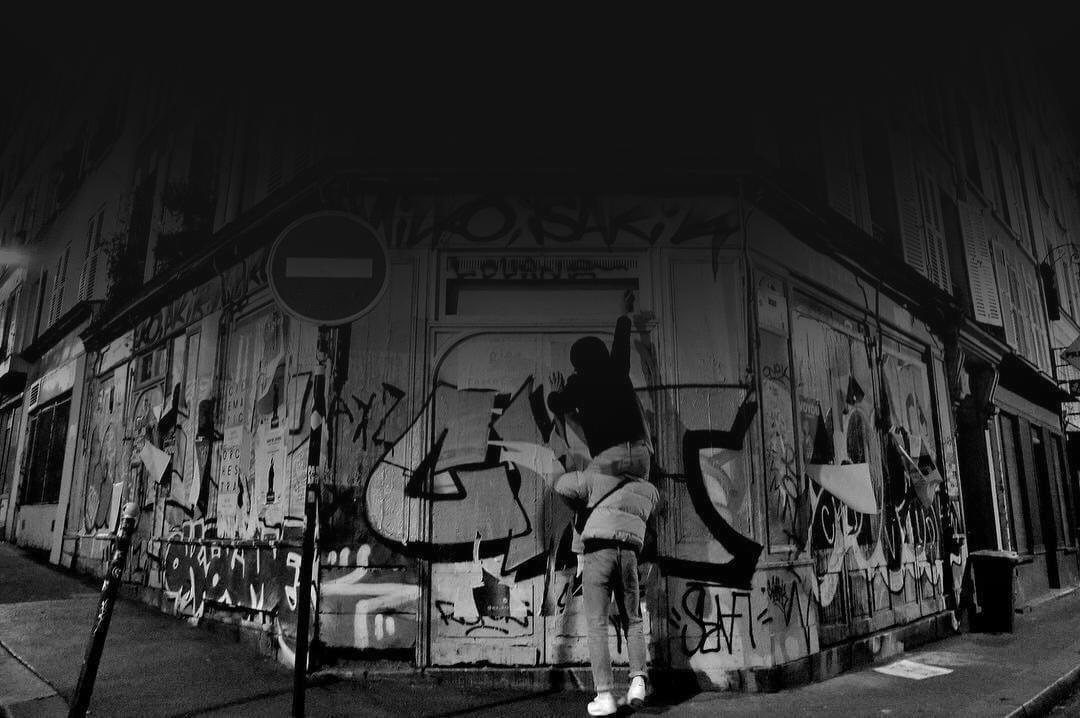
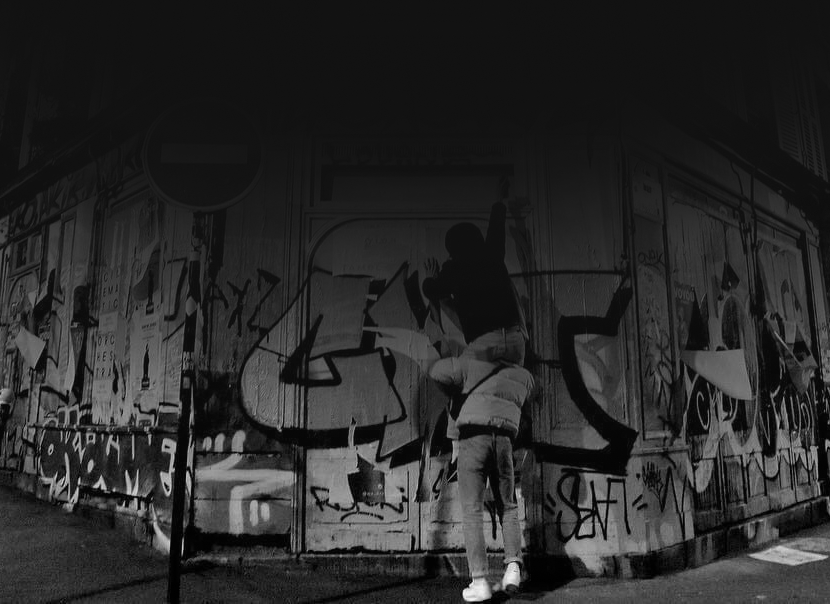
feat: shuffle-bag backgrounds, gritty crossfade transition, beat-driven equalizer fallback
6 new background images (frame-18 through frame-23) plus an updated,
lighter frame-16, all auto-discovered from src/assets/backgrounds/ as
before.

- Random image selection is now a shuffle-bag (lib/backgrounds.ts), not
  an independent Math.random() pick per track — the previous version
  could and did repeat the same image back-to-back purely by chance.
  Draws every image once in random order before any repeat, including
  guarding the boundary between cycles so the last image of one cycle
  can't also land as the first of the next.
- Background swap between tracks is now an actual transition instead of
  an instant swap: two alternating layers (background-image itself isn't
  CSS-transitionable, so crossfading needs two separately-animated
  layers, not one image swapped in place), with the outgoing/idle layer
  desaturated, high-contrast, dimmed, and slightly zoomed — reads as an
  underground mixtape/hood-doc hard cut rather than a generic soft fade.
- Equalizer's iOS fallback animation (for the WebKit devices where the
  real Web Audio tap never receives data — see prior commit) no longer
  moves as a smooth continuous sine wave, which read as a screensaver, not
  music. Replaced with a rough beat clock (~460ms, jittered so it isn't
  metronomic): most bars jump to a new random height on each tick while a
  few sit out entirely, then decay back down before the next hit — real
  VU-meter ballistics (fast attack, slower decay) instead of a smooth
  ripple.

diff --git a/src/screens/RadioScreen.tsx b/src/screens/RadioScreen.tsx
@@ -1,9 +1,15 @@
 import { useEffect, useRef, useState } from 'react'
 import { STREAM_HOST, STREAM_URL, decodeHtmlEntities } from '../lib/radioServer'
-import { pickRandomBackground } from '../lib/backgrounds'
+import { pickNextBackground } from '../lib/backgrounds'
 import { OnAirBadge } from '../components/OnAirBadge'
 import { Equalizer } from '../components/Equalizer'
 import { useAudioAnalyser } from '../lib/useAudioAnalyser'
+
+interface BackgroundLayers {
+  a: string | undefined
+  b: string | undefined
+  active: 'a' | 'b'
+}
 
 // Real, always-on broadcast — Icecast (distribution) + Liquidsoap
 // (scheduling/encoding) running on a dedicated VPS, streaming the shared
@@ -33,8 +39,16 @@ export function RadioScreen() {
   // A random poster image from src/assets/backgrounds/ behind everything,
   // re-rolled whenever the track actually changes (see the effect below
   // keyed on nowPlaying?.title) — purely decorative/mood, not tied to any
-  // specific track's own artwork.
-  const [background, setBackground] = useState<string | undefined>(() => pickRandomBackground())
+  // specific track's own artwork. Two alternating layers (not one image
+  // swapped in place) — background-image isn't itself a CSS-transitionable
+  // property, so crossfading between images means keeping both the outgoing
+  // and incoming image each on their own layer and animating opacity
+  // between the two layers instead (see .radio-screen__bg-layer).
+  const [bgLayers, setBgLayers] = useState<BackgroundLayers>(() => ({
+    a: pickNextBackground(),
+    b: undefined,
+    active: 'a',
+  }))
   const audioRef = useRef<HTMLAudioElement>(null)
   const { analyser, resume: resumeAnalyser } = useAudioAnalyser(audioRef)
 
@@ -266,18 +280,28 @@ export function RadioScreen() {
 
   // Re-roll the background whenever the track actually changes (not on
   // every 10s metadata poll — nowPlaying?.title only changes value when
-  // the broadcast genuinely moves to a different track).
+  // the broadcast genuinely moves to a different track). Loads the new
+  // image onto whichever layer is currently OFF-screen, then flips which
+  // layer is "active" — the CSS transition on .radio-screen__bg-layer's
+  // opacity/transform/filter is what actually animates the swap.
   useEffect(() => {
-    if (nowPlaying?.title) {
-      setBackground(pickRandomBackground())
-    }
+    if (!nowPlaying?.title) return
+    setBgLayers((prev) => {
+      const idleLayer = prev.active === 'a' ? 'b' : 'a'
+      return { ...prev, [idleLayer]: pickNextBackground(), active: idleLayer }
+    })
   }, [nowPlaying?.title])
 
   return (
     <div className="radio-screen">
       <div
-        className="radio-screen__background"
-        style={background ? { backgroundImage: `url(${background})` } : undefined}
+        className={`radio-screen__bg-layer${bgLayers.active === 'a' ? ' radio-screen__bg-layer--active' : ''}`}
+        style={bgLayers.a ? { backgroundImage: `url(${bgLayers.a})` } : undefined}
+        aria-hidden="true"
+      />
+      <div
+        className={`radio-screen__bg-layer${bgLayers.active === 'b' ? ' radio-screen__bg-layer--active' : ''}`}
+        style={bgLayers.b ? { backgroundImage: `url(${bgLayers.b})` } : undefined}
         aria-hidden="true"
       />
       <div className="radio-screen__scrim" aria-hidden="true" />

diff --git a/src/components/Equalizer.tsx b/src/components/Equalizer.tsx
@@ -20,6 +20,18 @@ const BAR_GAP = 3
 const REAL_DATA_GRACE_MS = 4000
 const REAL_DATA_THRESHOLD = 0.05
 
+// A smooth continuous sine wave reads as a screensaver, not "reacting to
+// music" — real VU/spectrum meters move in sharp, uneven hits with a fast
+// rise and a slower fall (ballistics), not a gentle rolling ripple. The
+// fallback fakes exactly that instead: on a rough beat clock, bars jump to
+// new random heights (not all of them, and not all by the same amount —
+// real drum/bass hits don't move every frequency band at once) then decay
+// back down before the next hit.
+const BEAT_INTERVAL_MS = 460
+const BEAT_JITTER_MS = 90 // avoids a too-metronomic, robotic feel
+const BEAT_ATTACK = 0.55 // per-frame pull toward a new (higher) target — fast
+const BEAT_DECAY = 0.08 // per-frame pull toward a new (lower) target — slower
+
 /**
  * Thin-line, technical-schematic style bar visualizer (matches the
  * reference flyer art — not a glowing neon meter). Purely a renderer: the
@@ -39,6 +51,27 @@ export function Equalizer({ analyser }: EqualizerProps) {
     let startedAt: number | null = null
     let sawRealData = false
 
+    const fallbackLevels = new Array(FALLBACK_BAR_COUNT).fill(0)
+    const fallbackTargets = new Array(FALLBACK_BAR_COUNT).fill(0)
+    let nextBeatAt = 0
+
+    function updateFallbackLevels(now: number) {
+      if (now >= nextBeatAt) {
+        nextBeatAt = now + BEAT_INTERVAL_MS + (Math.random() - 0.5) * 2 * BEAT_JITTER_MS
+        for (let i = 0; i < FALLBACK_BAR_COUNT; i++) {
+          // Most bars get a real hit; a few sit out this beat entirely —
+          // uniform movement across every bar on every tick is exactly
+          // what reads as fake.
+          fallbackTargets[i] = Math.random() < 0.75 ? 0.22 + Math.random() * 0.78 : 0.04 + Math.random() * 0.15
+        }
+      }
+      for (let i = 0; i < FALLBACK_BAR_COUNT; i++) {
+        const target = fallbackTargets[i]
+        const rate = target > fallbackLevels[i] ? BEAT_ATTACK : BEAT_DECAY
+        fallbackLevels[i] += (target - fallbackLevels[i]) * rate
+      }
+    }
+
     function draw(now: number) {
       rafId = requestAnimationFrame(draw)
       if (startedAt === null) startedAt = now
@@ -48,6 +81,7 @@ export function Equalizer({ analyser }: EqualizerProps) {
       if (maxLevel > REAL_DATA_THRESHOLD) sawRealData = true
 
       const useFallback = !sawRealData && now - startedAt > REAL_DATA_GRACE_MS
+      if (useFallback) updateFallbackLevels(now)
 
       const { width, height } = canvas!
       ctx!.clearRect(0, 0, width, height)
@@ -57,9 +91,7 @@ export function Equalizer({ analyser }: EqualizerProps) {
       const barWidth = (width - BAR_GAP * (barCount - 1)) / barCount
 
       for (let i = 0; i < barCount; i++) {
-        const level = useFallback
-          ? 0.08 + ((Math.sin(now / 220 + i * 0.7) + 1) / 2) * 0.55
-          : data[i] / 255
+        const level = useFallback ? fallbackLevels[i] : data[i] / 255
         const barHeight = Math.max(2, level * height)
         ctx!.fillRect(i * (barWidth + BAR_GAP), height - barHeight, barWidth, barHeight)
       }

diff --git a/src/styles/theme.css b/src/styles/theme.css
@@ -56,12 +56,15 @@ button {
   background: var(--color-bg);
 }
 
-/* Poster-style backdrop — one of src/assets/backgrounds/*, re-rolled
-   whenever the track changes (see RadioScreen.tsx). background-size:
-   cover crops to fill the exact screen area at the image's own aspect
-   ratio — it never stretches a dimension unevenly and never shrinks down
-   to a tiny centered square the way `contain` would. */
-.radio-screen__background {
+/* Poster-style backdrop — two stacked layers (see RadioScreen.tsx for why
+   two: background-image itself can't be CSS-transitioned, so crossfading
+   means an outgoing layer and an incoming layer, each with their own
+   image, animating past each other) each showing one of
+   src/assets/backgrounds/*, re-rolled whenever the track changes.
+   background-size: cover crops to fill the exact screen area at the
+   image's own aspect ratio — it never stretches a dimension unevenly and
+   never shrinks down to a tiny centered square the way `contain` would. */
+.radio-screen__bg-layer {
   position: absolute;
   inset: 0;
   background-color: var(--color-bg);
@@ -78,6 +81,25 @@ button {
      the crop window further toward the lower part of the source image,
      which visually reads as the photo sliding further up in the frame. */
   background-position: center calc(50% + 50px);
+
+  /* Resting (outgoing/not-yet-shown) state: desaturated, punched-up
+     contrast, dimmed, and slightly zoomed in — an underground mixtape/
+     hood-doc "hard cut" look rather than a soft, generic crossfade.
+     Flipping to --active below animates every one of these back to
+     normal, which is what actually plays the transition. */
+  opacity: 0;
+  transform: scale(1.08);
+  filter: grayscale(1) contrast(1.5) brightness(0.55);
+  transition:
+    opacity 260ms ease-out,
+    transform 900ms cubic-bezier(0.16, 1, 0.3, 1),
+    filter 700ms ease-out;
+}
+
+.radio-screen__bg-layer--active {
+  opacity: 1;
+  transform: scale(1);
+  filter: grayscale(0) contrast(1) brightness(1);
 }
 
 /* Sits between the image and the readable content — without it, a bright

diff --git a/src/lib/backgrounds.ts b/src/lib/backgrounds.ts
@@ -9,7 +9,38 @@ const modules = import.meta.glob('/src/assets/backgrounds/*.{png,jpg,jpeg,webp}'
 
 export const BACKGROUND_IMAGES: string[] = Object.values(modules)
 
-export function pickRandomBackground(): string | undefined {
+function shuffle<T>(items: T[]): T[] {
+  const shuffled = [...items]
+  for (let i = shuffled.length - 1; i > 0; i--) {
+    const j = Math.floor(Math.random() * (i + 1))
+    ;[shuffled[i], shuffled[j]] = [shuffled[j], shuffled[i]]
+  }
+  return shuffled
+}
+
+// Shuffle-bag rather than an independent Math.random() pick each time —
+// plain independent random CAN and does repeat the same image back-to-
+// back or in quick succession purely by chance, which is exactly what
+// "random but never repeats" is supposed to rule out for a small curated
+// pool. This draws every image once, in a random order, before any image
+// is allowed to repeat.
+let bag: string[] = []
+let lastPicked: string | undefined
+
+function refillBag() {
+  bag = shuffle(BACKGROUND_IMAGES)
+  // A plain per-cycle shuffle can still produce a repeat right at the
+  // boundary between cycles (the last draw of one cycle happening to be
+  // first draw of the next) — swap it out if so.
+  if (bag.length > 1 && bag[bag.length - 1] === lastPicked) {
+    const swapWith = Math.floor(Math.random() * (bag.length - 1))
+    ;[bag[bag.length - 1], bag[swapWith]] = [bag[swapWith], bag[bag.length - 1]]
+  }
+}
+
+export function pickNextBackground(): string | undefined {
   if (BACKGROUND_IMAGES.length === 0) return undefined
-  return BACKGROUND_IMAGES[Math.floor(Math.random() * BACKGROUND_IMAGES.length)]
+  if (bag.length === 0) refillBag()
+  lastPicked = bag.pop()
+  return lastPicked
 }
